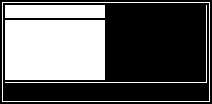
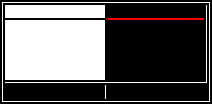
update background

Changed region(s): [[0.4811, 0.1731, 0.9623, 0.2019], [0.4811, 0.8077, 0.5094, 0.9519]]

diff --git a/dcapoll.py b/dcapoll.py
@@ -86,18 +86,10 @@ def main():
             draw.text((percent_x, 89), percentstr, inkyphat.WHITE, font=font)
 
             ## DRAW today header centered
-            todaystr = 'TODAY'
-            if todays_info['bought_today']:
-                todaystr += ' (bought)'
+            todaystr = 'TODAY' + (' (bought)' if todays_info['bought_today'] else '')
             (today_w, _) = font.getsize(todaystr)
             today_x = (inkyphat.WIDTH - 10) / 4 * 3 + 5 - today_w / 2
             draw.text((today_x, 8), todaystr, inkyphat.WHITE, font=font)
-
-            ## DRAW header line
-            # TODO: make part of bakcground?
-            for y in range(18,20):
-                for x in range(108, 203):
-                    img.putpixel((x, y), alt_color)
 
             ## DRAW config info
             y_offset = 22
@@ -120,17 +112,11 @@ def main():
             ## DRAW (SSH) IP
             draw.text((110, 89), ipstr, inkyphat.WHITE, font=font)
 
-            ## DRAW line separating percent and IP
-            # TODO: make part of bakcground?
-            for y in range(86, 99):
-                for x in range(106,107):
-                    img.putpixel((x, y), alt_color)
-
         except Exception as exc:
             logging.critical("Exception " + str(exc.__class__.__name__) + " : " + str(exc))
 
         # finally rotate and show picture
-        flipped = img.rotate(180)
+        flipped = img.rotate(180) # NOTE: depends on Pi's orientation
         inkyphat.set_image(flipped)
         inkyphat.show()
 
@@ -143,3 +129,4 @@ def main():
 
 if __name__ == "__main__":
     main()
+
